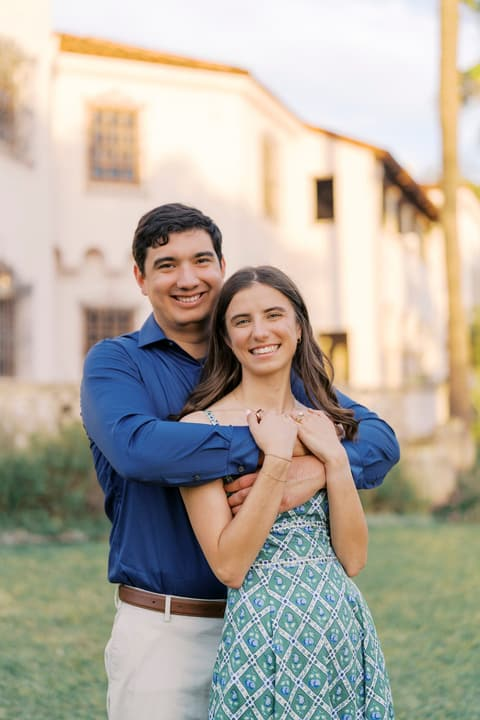
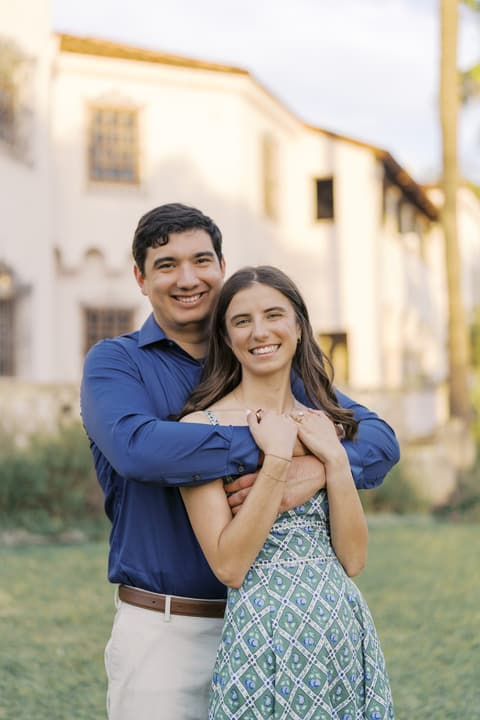
Replace engagement gallery with 20 new photos and trim photos page copy

diff --git a/app/photos/engagement-photos.ts b/app/photos/engagement-photos.ts
@@ -2,133 +2,24 @@
 export type EngagementPhoto = { name: string; w: number; h: number };
 
 export const ENGAGEMENT_PHOTOS: EngagementPhoto[] = [
+  { name: "27550164-AFCE-4441-9000-7E66B392AA6A", w: 1200, h: 1600 },
+  { name: "IMG_0159", w: 1600, h: 1067 },
+  { name: "IMG_2483", w: 1200, h: 1600 },
   { name: "IMG_4244", w: 1066, h: 1600 },
   { name: "IMG_4245", w: 1066, h: 1600 },
-  { name: "IMG_4246", w: 1066, h: 1600 },
-  { name: "IMG_4247", w: 1066, h: 1600 },
-  { name: "IMG_4248", w: 1066, h: 1600 },
-  { name: "IMG_4249", w: 1066, h: 1600 },
-  { name: "IMG_4250", w: 1066, h: 1600 },
-  { name: "IMG_4251", w: 1066, h: 1600 },
-  { name: "IMG_4252", w: 1066, h: 1600 },
-  { name: "IMG_4253", w: 1066, h: 1600 },
-  { name: "IMG_4254", w: 1066, h: 1600 },
-  { name: "IMG_4255", w: 1066, h: 1600 },
-  { name: "IMG_4256", w: 1066, h: 1600 },
-  { name: "IMG_4257", w: 1066, h: 1600 },
-  { name: "IMG_4258", w: 1066, h: 1600 },
-  { name: "IMG_4259", w: 1066, h: 1600 },
-  { name: "IMG_4260", w: 1066, h: 1600 },
-  { name: "IMG_4261", w: 1066, h: 1600 },
   { name: "IMG_4262", w: 1066, h: 1600 },
-  { name: "IMG_4263", w: 1066, h: 1600 },
-  { name: "IMG_4264", w: 1066, h: 1600 },
-  { name: "IMG_4265", w: 1066, h: 1600 },
-  { name: "IMG_4266", w: 1066, h: 1600 },
   { name: "IMG_4267", w: 1066, h: 1600 },
-  { name: "IMG_4268", w: 1066, h: 1600 },
   { name: "IMG_4269", w: 1066, h: 1600 },
-  { name: "IMG_4270", w: 1066, h: 1600 },
-  { name: "IMG_4271", w: 1066, h: 1600 },
-  { name: "IMG_4272", w: 1066, h: 1600 },
-  { name: "IMG_4273", w: 1066, h: 1600 },
-  { name: "IMG_4274", w: 1066, h: 1600 },
-  { name: "IMG_4275", w: 1066, h: 1600 },
-  { name: "IMG_4276", w: 1066, h: 1600 },
-  { name: "IMG_4277", w: 1066, h: 1600 },
-  { name: "IMG_4278", w: 1066, h: 1600 },
-  { name: "IMG_4279", w: 1066, h: 1600 },
-  { name: "IMG_4280", w: 1066, h: 1600 },
-  { name: "IMG_4281", w: 1066, h: 1600 },
-  { name: "IMG_4282", w: 1066, h: 1600 },
-  { name: "IMG_4283", w: 1066, h: 1600 },
   { name: "IMG_4284", w: 1066, h: 1600 },
-  { name: "IMG_4285", w: 1066, h: 1600 },
-  { name: "IMG_4286", w: 1066, h: 1600 },
-  { name: "IMG_4287", w: 1066, h: 1600 },
-  { name: "IMG_4288", w: 1066, h: 1600 },
-  { name: "IMG_4289", w: 1066, h: 1600 },
-  { name: "IMG_4290", w: 1066, h: 1600 },
   { name: "IMG_4291", w: 1066, h: 1600 },
-  { name: "IMG_4292", w: 1066, h: 1600 },
-  { name: "IMG_4293", w: 1066, h: 1600 },
-  { name: "IMG_4294", w: 1066, h: 1600 },
-  { name: "IMG_4295", w: 1066, h: 1600 },
-  { name: "IMG_4296", w: 1066, h: 1600 },
-  { name: "IMG_4297", w: 1066, h: 1600 },
-  { name: "IMG_4298", w: 1066, h: 1600 },
-  { name: "IMG_4299", w: 1066, h: 1600 },
-  { name: "IMG_4300", w: 1066, h: 1600 },
-  { name: "IMG_4301", w: 1066, h: 1600 },
-  { name: "IMG_4302", w: 1066, h: 1600 },
-  { name: "IMG_4303", w: 1600, h: 1066 },
-  { name: "IMG_4304", w: 1066, h: 1600 },
-  { name: "IMG_4305", w: 1066, h: 1600 },
-  { name: "IMG_4306", w: 1066, h: 1600 },
   { name: "IMG_4307", w: 1066, h: 1600 },
-  { name: "IMG_4308", w: 1066, h: 1600 },
-  { name: "IMG_4309", w: 1066, h: 1600 },
-  { name: "IMG_4310", w: 1066, h: 1600 },
-  { name: "IMG_4311", w: 1066, h: 1600 },
-  { name: "IMG_4312", w: 1066, h: 1600 },
-  { name: "IMG_4313", w: 1066, h: 1600 },
-  { name: "IMG_4314", w: 1066, h: 1600 },
-  { name: "IMG_4315", w: 1066, h: 1600 },
-  { name: "IMG_4316", w: 1066, h: 1600 },
-  { name: "IMG_4317", w: 1066, h: 1600 },
   { name: "IMG_4318", w: 1066, h: 1600 },
-  { name: "IMG_4319", w: 1066, h: 1600 },
-  { name: "IMG_4320", w: 1066, h: 1600 },
-  { name: "IMG_4321", w: 1066, h: 1600 },
-  { name: "IMG_4322", w: 1066, h: 1600 },
-  { name: "IMG_4323", w: 1066, h: 1600 },
-  { name: "IMG_4324", w: 1066, h: 1600 },
-  { name: "IMG_4325", w: 1066, h: 1600 },
-  { name: "IMG_4326", w: 1066, h: 1600 },
-  { name: "IMG_4327", w: 1066, h: 1600 },
-  { name: "IMG_4328", w: 1066, h: 1600 },
-  { name: "IMG_4329", w: 1066, h: 1600 },
-  { name: "IMG_4330", w: 1066, h: 1600 },
-  { name: "IMG_4331", w: 1066, h: 1600 },
   { name: "IMG_4332", w: 1066, h: 1600 },
-  { name: "IMG_4333", w: 1066, h: 1600 },
-  { name: "IMG_4334", w: 1066, h: 1600 },
-  { name: "IMG_4335", w: 1066, h: 1600 },
-  { name: "IMG_4336", w: 1066, h: 1600 },
-  { name: "IMG_4337", w: 1066, h: 1600 },
-  { name: "IMG_4338", w: 1066, h: 1600 },
-  { name: "IMG_4339", w: 1066, h: 1600 },
-  { name: "IMG_4340", w: 1066, h: 1600 },
-  { name: "IMG_4341", w: 1066, h: 1600 },
-  { name: "IMG_4342", w: 1066, h: 1600 },
-  { name: "IMG_4343", w: 1066, h: 1600 },
-  { name: "IMG_4344", w: 1066, h: 1600 },
-  { name: "IMG_4345", w: 1066, h: 1600 },
-  { name: "IMG_4346", w: 1066, h: 1600 },
-  { name: "IMG_4347", w: 1066, h: 1600 },
-  { name: "IMG_4348", w: 1066, h: 1600 },
-  { name: "IMG_4349", w: 1066, h: 1600 },
-  { name: "IMG_4350", w: 1066, h: 1600 },
   { name: "IMG_4351", w: 1066, h: 1600 },
-  { name: "IMG_4352", w: 1066, h: 1600 },
-  { name: "IMG_4353", w: 1066, h: 1600 },
-  { name: "IMG_4354", w: 1066, h: 1600 },
-  { name: "IMG_4355", w: 1066, h: 1600 },
-  { name: "IMG_4356", w: 1066, h: 1600 },
   { name: "IMG_4357", w: 1066, h: 1600 },
-  { name: "IMG_4358", w: 1066, h: 1600 },
-  { name: "IMG_4359", w: 1066, h: 1600 },
-  { name: "IMG_4360", w: 1066, h: 1600 },
-  { name: "IMG_4361", w: 1066, h: 1600 },
-  { name: "IMG_4362", w: 1066, h: 1600 },
-  { name: "IMG_4363", w: 1066, h: 1600 },
-  { name: "IMG_4364", w: 1066, h: 1600 },
-  { name: "IMG_4365", w: 1066, h: 1600 },
-  { name: "IMG_4366", w: 1066, h: 1600 },
-  { name: "IMG_4367", w: 1066, h: 1600 },
-  { name: "IMG_4368", w: 1066, h: 1600 },
-  { name: "IMG_4369", w: 1066, h: 1600 },
-  { name: "IMG_4370", w: 1066, h: 1600 },
-  { name: "IMG_4371", w: 1066, h: 1600 },
   { name: "IMG_4372", w: 1600, h: 1066 },
+  { name: "IMG_6138", w: 1600, h: 1446 },
+  { name: "IMG_8503", w: 1200, h: 1600 },
+  { name: "IMG_8640", w: 1290, h: 1524 },
+  { name: "IMG_9514", w: 1600, h: 1066 },
 ];

diff --git a/app/photos/page.tsx b/app/photos/page.tsx
@@ -9,11 +9,7 @@ export default function PhotosPage() {
       <main className="content-page">
         <div className="content-container content-container--wide">
           <header className="gallery-header">
-            <p className="gallery-kicker">Our Engagement</p>
-            <h1>Our Photos</h1>
-            <p className="description">
-              A few favorite moments from our engagement session. Tap any photo to view it larger.
-            </p>
+            <h1>Photos</h1>
           </header>
           <PhotoGallery photos={ENGAGEMENT_PHOTOS} />
         </div>
